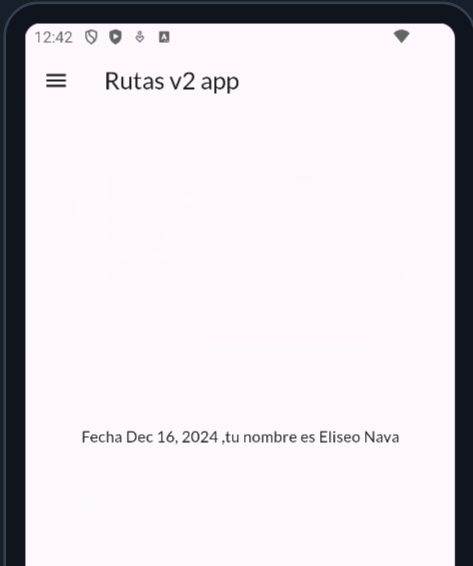
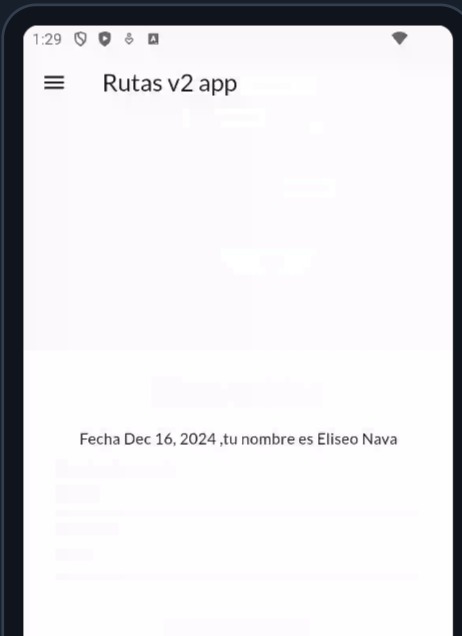
rutas version 2 con variables

diff --git a/lib/pages/login_page.dart b/lib/pages/login_page.dart
@@ -1,9 +1,16 @@
 import 'package:flutter/material.dart';
 import 'package:myapp/utils/routes.dart';
 
-class LoginPage extends StatelessWidget {
+class LoginPage extends StatefulWidget {
   const LoginPage({super.key});
 
+  @override
+  State<LoginPage> createState() => _LoginPageState();
+}
+
+class _LoginPageState extends State<LoginPage> {
+  String nombre = "";
+  bool cambioBoton = false;
   @override
   Widget build(BuildContext context) {
     return Material(
@@ -38,6 +45,10 @@ class LoginPage extends StatelessWidget {
                         hintText: "Ingresa Nombre de usuario",
                         labelText: "Nombre de usuario",
                       ),
+                      onChanged: (value) {
+                        nombre = value;
+                        setState(() {});
+                      },
                     ),
                     TextFormField(
                       obscureText: true,
@@ -49,16 +60,50 @@ class LoginPage extends StatelessWidget {
                     const SizedBox(
                       height: 40.0,
                     ),
-                    ElevatedButton(
-                      style: TextButton.styleFrom(
-                          backgroundColor: Colors.purple,
-                          foregroundColor: Colors.white,
-                          minimumSize: const Size(150, 40)),
-                      onPressed: () {
+                    // animacion asincrona
+                    InkWell(
+                      onTap: () async {
+                        setState(() {
+                          cambioBoton = true;
+                        });
+                        await Future.delayed(const Duration(seconds: 1));
+                        // ignore: use_build_context_synchronously
                         Navigator.pushNamed(context, MyRoutes.homeRoute);
                       },
-                      child: const Text("Acceder"),
-                    )
+                      child: AnimatedContainer(
+                        duration: const Duration(seconds: 1),
+                        width: cambioBoton ? 50 : 150,
+                        height: 50,
+                        alignment: Alignment.center,
+                        decoration: BoxDecoration(
+                          color: Colors.deepPurple,
+                          borderRadius:
+                              BorderRadius.circular(cambioBoton ? 50 : 8),
+                        ),
+                        child: cambioBoton
+                            ? const Icon(
+                                Icons.done,
+                                color: Colors.white,
+                              )
+                            : const Text(
+                                "Acceder..",
+                                style: TextStyle(
+                                    color: Colors.white,
+                                    fontWeight: FontWeight.bold,
+                                    fontSize: 18),
+                              ),
+                      ),
+                    ),
+                    // ElevatedButton(
+                    //   style: TextButton.styleFrom(
+                    //       backgroundColor: Colors.purple,
+                    //       foregroundColor: Colors.white,
+                    //       minimumSize: const Size(150, 40)),
+                    //   onPressed: () {
+                    //     Navigator.pushNamed(context, MyRoutes.homeRoute);
+                    //   },
+                    //   child: const Text("Acceder"),
+                    // )
                   ],
                 ),
               )

diff --git a/lib/main.dart b/lib/main.dart
@@ -15,7 +15,7 @@ class MyApp extends StatelessWidget {
       debugShowCheckedModeBanner: false,
       themeMode: ThemeMode.light,
       theme: ThemeData(
-        primarySwatch: Colors.blue,
+        primarySwatch: Colors.deepPurple,
         fontFamily: GoogleFonts.lato().fontFamily,
       ),
       darkTheme: ThemeData(

diff --git a/z_recursos/recursos.md b/z_recursos/recursos.md
@@ -1,11 +1,11 @@
 ## Entrada de texto textinput
 - en el nevegador busca 
-- ejemplos de DateTime flutter medium
-
+- es flutter AnimatedContainer
+github https://github.com/iampawan/30DaysOfFlutter/blob/day6/lib/pages/home_page.dart
 ## flutter oficial
 
 
-[- DateTime Formatting in Flutter medium](https://api.flutter.dev/flutter/dart-core/DateTime-class.html)
+[- AnimatedContainer class](https://api.flutter.dev/flutter/widgets/AnimatedContainer-class.html)
 
 
 ## resultados
@@ -27,12 +27,9 @@ login
 [- New Material buttons in Flutter](https://blog.logrocket.com/new-material-buttons-in-flutter/)
 
 ## videos
+https://youtu.be/tF36qXam8Ok?si=xbMdC8sq2K8aNS3D
 
-https://youtu.be/CSl2Yu2l-hc?si=eec2gQooNA9az9az
+https://youtu.be/kWIrhqhCVBk?si=2ZBA1u6ZXZern3H3
 
-https://youtu.be/1Gd6QYxkk0A?si=CXizxsGEzuyl1NTo
+https://youtu.be/yI-8QHpGIP4?si=QChxoNGO_5PVztPf
 
-https://youtu.be/1Gd6QYxkk0A?si=K4VzZrTGXqBBslk-
-
-
-https://youtu.be/cJnUYrXBiw4?si=dlTZBd6fzYuH86lZ
